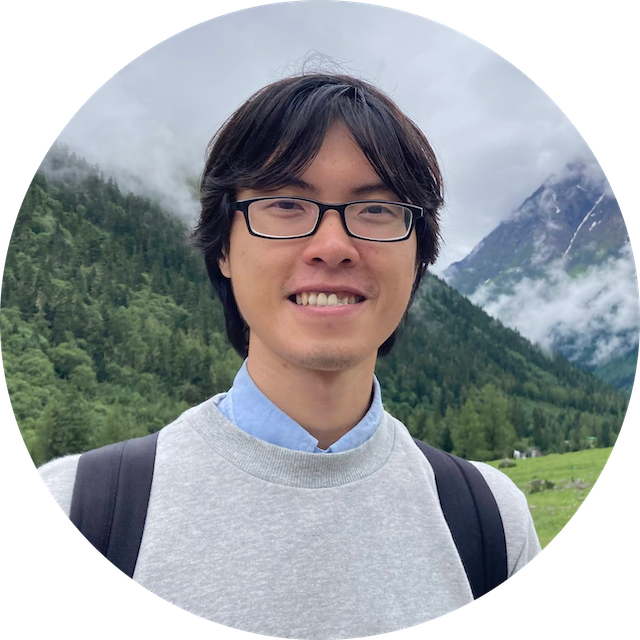
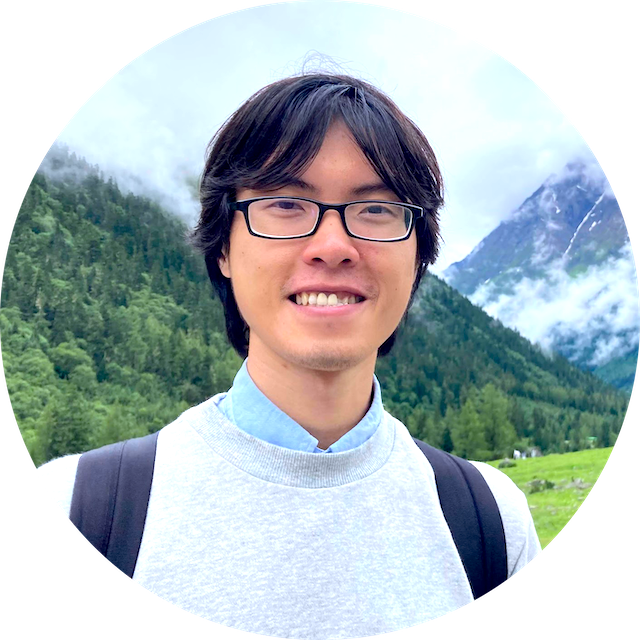
modified:   _sass/minimal-mistakes/_sidebar.scss 	modified:   assets/images/bio-photo-1.png

diff --git a/_sass/minimal-mistakes/_sidebar.scss b/_sass/minimal-mistakes/_sidebar.scss
@@ -124,8 +124,8 @@
 .author__avatar {
   display: table-cell;
   vertical-align: top;
-  width: 72px;
-  height: 72x;
+  width: 100px;  /* Adjusted width */
+  height: 100px;
 
   @include breakpoint($large) {
     display: block;
@@ -134,7 +134,8 @@
   }
 
   img {
-    max-width: 110px;
+    max-width: 100%;  /* This will make the image responsive to the size of the container */
+    height: auto; 
     // border-radius: 10%;
 
     @include breakpoint($large) {
